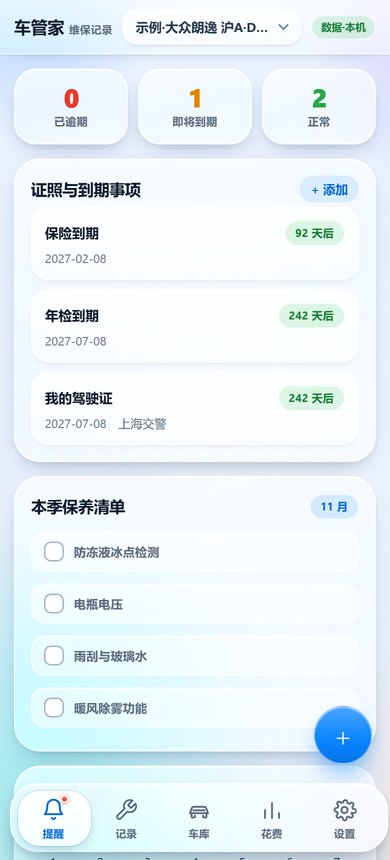
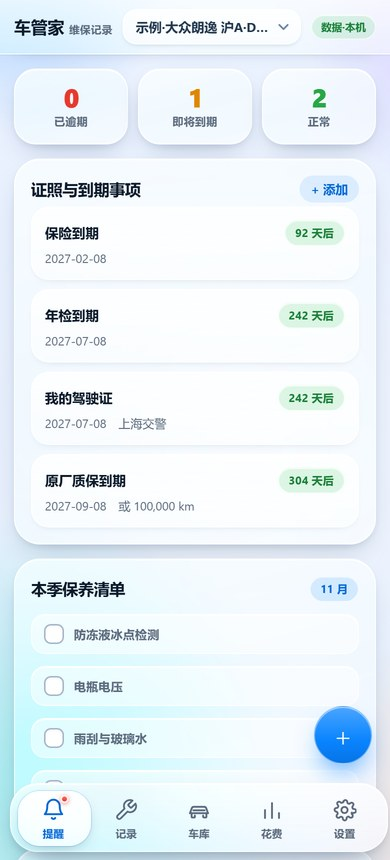
fix: 示例数据不再额外挂一辆空车，补原厂质保；截图重出 (b7)

diff --git a/Resources/web/index.html b/Resources/web/index.html
@@ -1825,8 +1825,11 @@ function importData(){
 }
 function loadDemo(){
   if(!confirm('将填充示例车辆与数据（不覆盖现有车辆）？'))return;
-  const vid=uid();
-  DB.vehicles.push({id:vid,name:'示例·大众朗逸',model:'大众 朗逸 1.5L',plate:'沪A·D8888',vin:'LV2A23B8XN1234567',buyDate:'2023-05-01',mileage:32800,insuranceDue:addMonths(today(),3),inspectionDue:addMonths(today(),8),power:'fuel'});
+  const demo={name:'示例·大众朗逸',model:'大众 朗逸 1.5L',plate:'沪A·D8888',vin:'LV2A23B8XN1234567',buyDate:'2023-05-01',mileage:32800,insuranceDue:addMonths(today(),3),inspectionDue:addMonths(today(),8),power:'fuel',warrantyEnd:addMonths(today(),10),warrantyKm:100000};
+  /* 库里只剩一辆空白默认车时，直接把它填成示例车，免得示例数据下面挂着一辆空车 */
+  const blank=(DB.vehicles.length===1&&!DB.vehicles[0].model&&!DB.vehicles[0].plate&&!DB.vehicles[0].mileage)?DB.vehicles[0]:null;
+  const vid=blank?blank.id:uid();
+  if(blank)Object.assign(blank,demo); else DB.vehicles.push(Object.assign({id:vid},demo));
   DB.reminders.push({id:uid(),vehicleId:vid,name:'机油+机滤',basis:'both',months:6,km:5000,lastDate:addMonths(today(),-5),lastMileage:28000,enabled:true});
   DB.reminders.push({id:uid(),vehicleId:vid,name:'保险续费',basis:'date',months:12,km:0,lastDate:addMonths(today(),-9),lastMileage:0,enabled:true});
   DB.reminders.push({id:uid(),vehicleId:vid,name:'刹车片检查',basis:'mileage',months:0,km:40000,lastDate:addMonths(today(),-2),lastMileage:28000,enabled:true});

diff --git a/docs/index.html b/docs/index.html
@@ -1825,8 +1825,11 @@ function importData(){
 }
 function loadDemo(){
   if(!confirm('将填充示例车辆与数据（不覆盖现有车辆）？'))return;
-  const vid=uid();
-  DB.vehicles.push({id:vid,name:'示例·大众朗逸',model:'大众 朗逸 1.5L',plate:'沪A·D8888',vin:'LV2A23B8XN1234567',buyDate:'2023-05-01',mileage:32800,insuranceDue:addMonths(today(),3),inspectionDue:addMonths(today(),8),power:'fuel'});
+  const demo={name:'示例·大众朗逸',model:'大众 朗逸 1.5L',plate:'沪A·D8888',vin:'LV2A23B8XN1234567',buyDate:'2023-05-01',mileage:32800,insuranceDue:addMonths(today(),3),inspectionDue:addMonths(today(),8),power:'fuel',warrantyEnd:addMonths(today(),10),warrantyKm:100000};
+  /* 库里只剩一辆空白默认车时，直接把它填成示例车，免得示例数据下面挂着一辆空车 */
+  const blank=(DB.vehicles.length===1&&!DB.vehicles[0].model&&!DB.vehicles[0].plate&&!DB.vehicles[0].mileage)?DB.vehicles[0]:null;
+  const vid=blank?blank.id:uid();
+  if(blank)Object.assign(blank,demo); else DB.vehicles.push(Object.assign({id:vid},demo));
   DB.reminders.push({id:uid(),vehicleId:vid,name:'机油+机滤',basis:'both',months:6,km:5000,lastDate:addMonths(today(),-5),lastMileage:28000,enabled:true});
   DB.reminders.push({id:uid(),vehicleId:vid,name:'保险续费',basis:'date',months:12,km:0,lastDate:addMonths(today(),-9),lastMileage:0,enabled:true});
   DB.reminders.push({id:uid(),vehicleId:vid,name:'刹车片检查',basis:'mileage',months:0,km:40000,lastDate:addMonths(today(),-2),lastMileage:28000,enabled:true});
